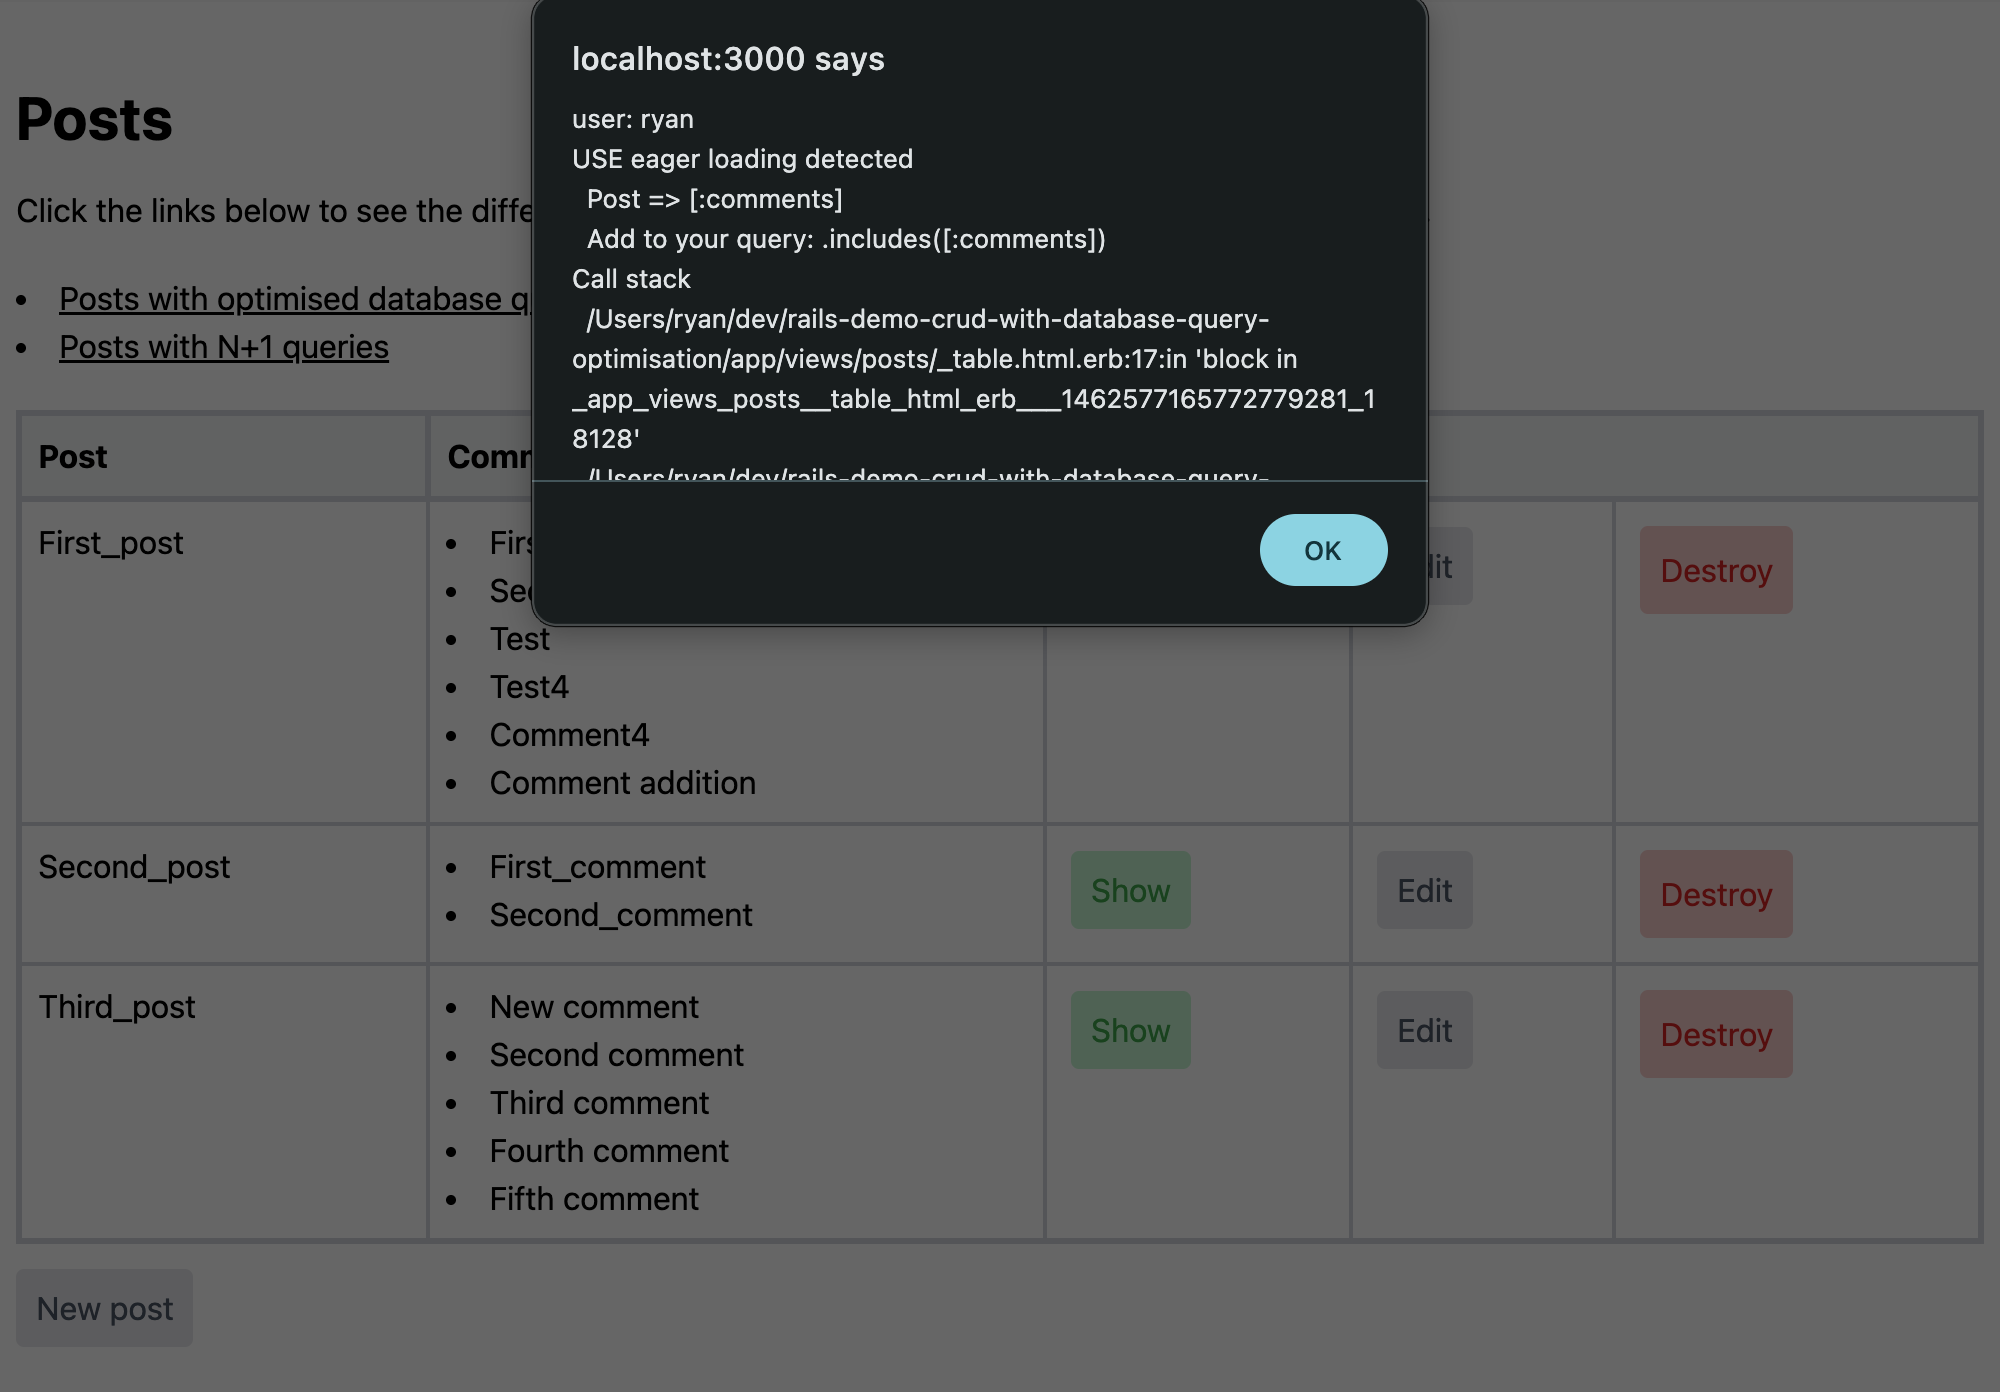
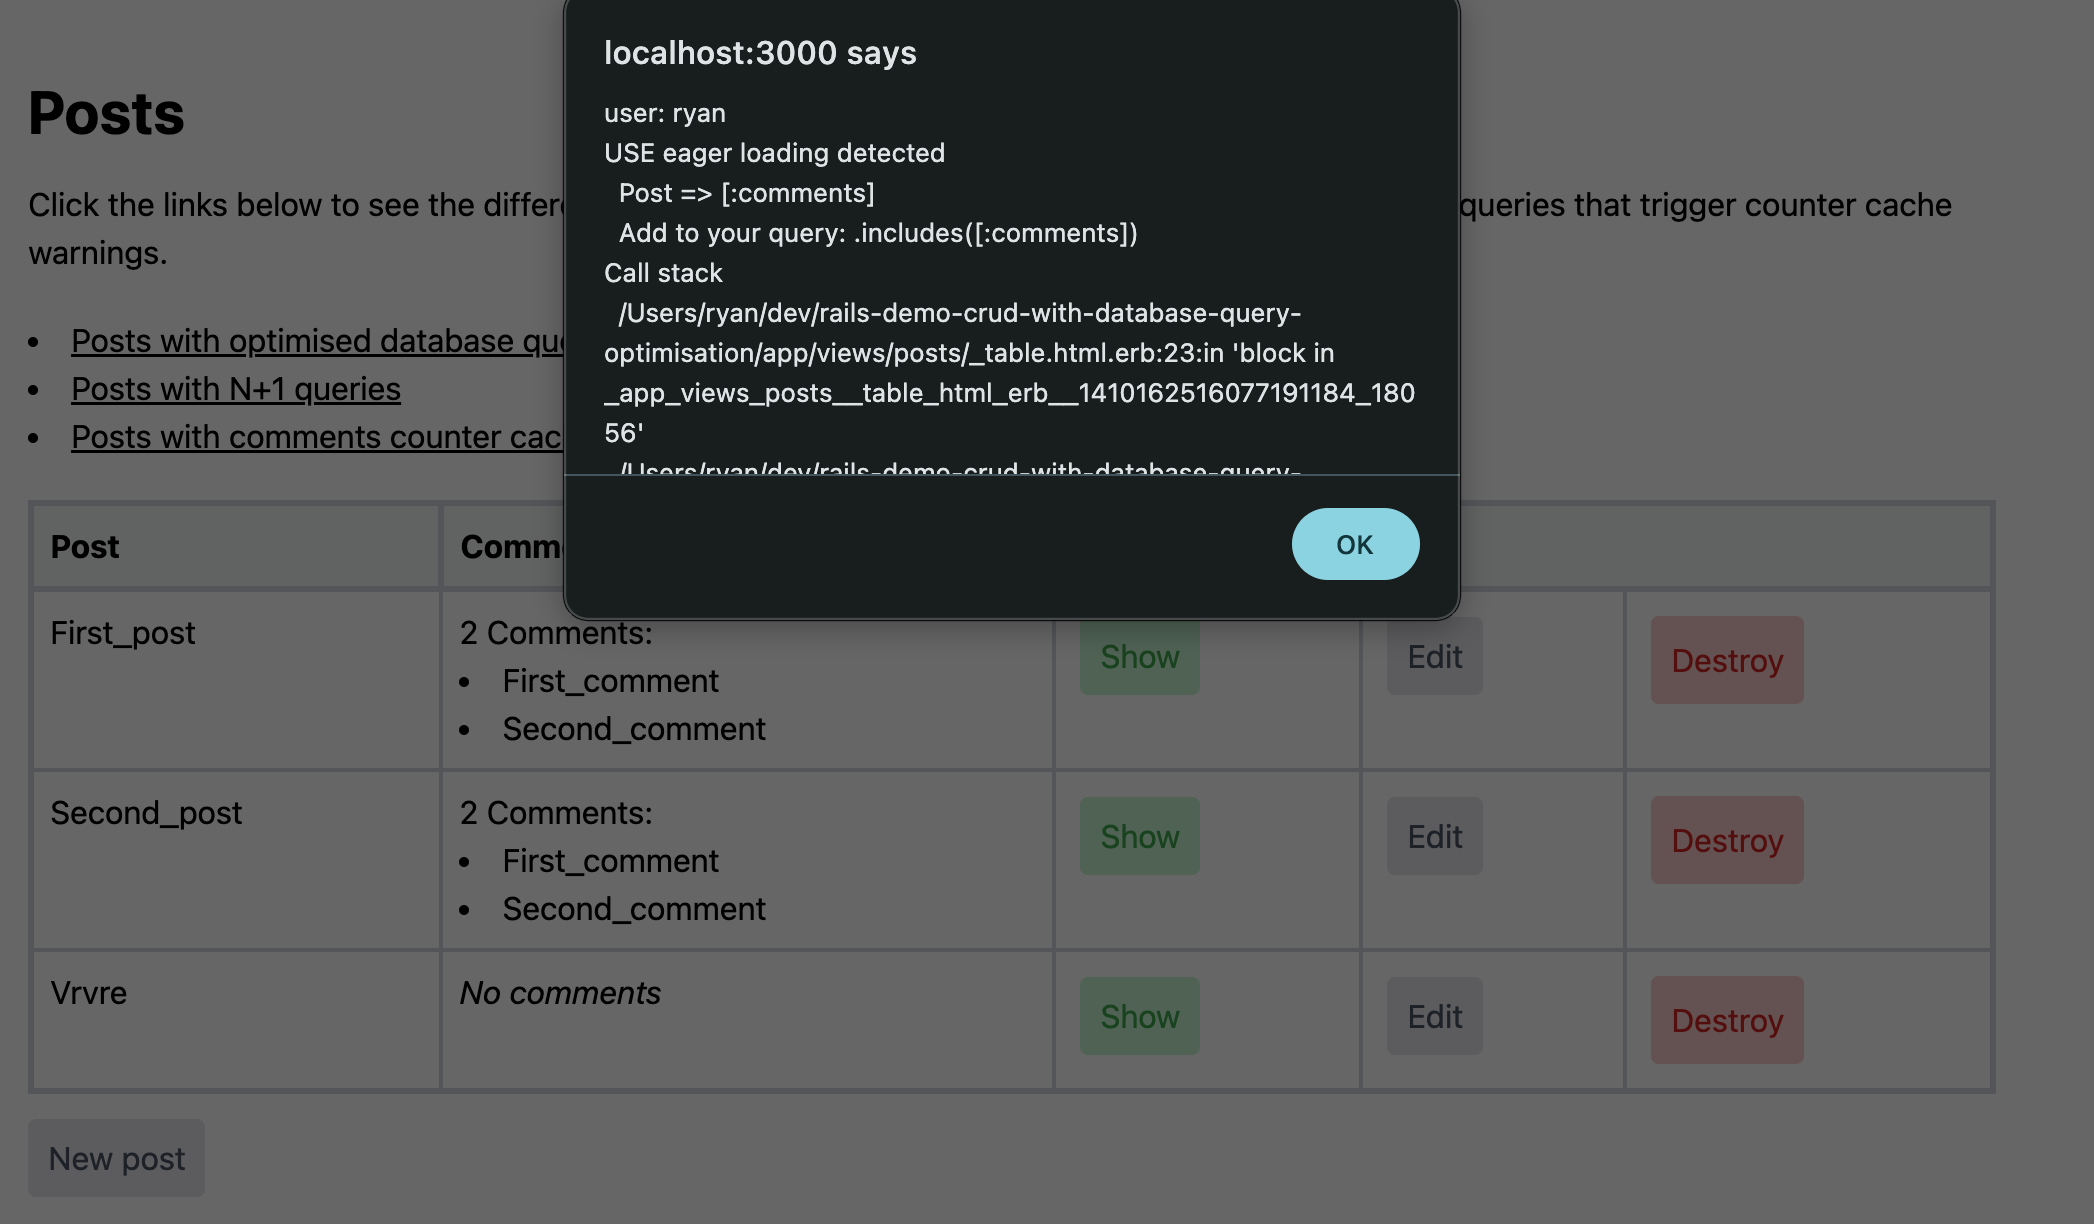
add counter cache for comments on posts with warning link

diff --git a/db/schema.rb b/db/schema.rb
@@ -10,7 +10,7 @@
 #
 # It's strongly recommended that you check this file into your version control system.
 
-ActiveRecord::Schema[8.0].define(version: 2025_10_06_203013) do
+ActiveRecord::Schema[8.0].define(version: 2025_10_07_204958) do
   create_table "comments", force: :cascade do |t|
     t.string "content"
     t.integer "post_id"
@@ -22,5 +22,6 @@ ActiveRecord::Schema[8.0].define(version: 2025_10_06_203013) do
     t.string "name"
     t.datetime "created_at", null: false
     t.datetime "updated_at", null: false
+    t.integer "comments_count", default: 0
   end
 end

diff --git a/app/controllers/posts_controller.rb b/app/controllers/posts_controller.rb
@@ -3,6 +3,10 @@ class PostsController < ApplicationController
 
   # GET /posts or /posts.json
   def index
+    if params[:query] == "counter-cache-warning"
+      # set flag to trigger counter cache warning in view
+      @counter_cache_warning = true
+    end
     if params[:query] == "n+1"
       @posts = Post.all
     else

diff --git a/app/models/comment.rb b/app/models/comment.rb
@@ -1,5 +1,5 @@
 class Comment < ApplicationRecord
-  belongs_to :post
+  belongs_to :post, counter_cache: true
 
   validates :content, presence: true, length: { minimum: 3, maximum: 255 }
 end

diff --git a/db/migrate/20251007204958_add_comments_count_to_posts.rb b/db/migrate/20251007204958_add_comments_count_to_posts.rb
@@ -1,0 +1,5 @@
+class AddCommentsCountToPosts < ActiveRecord::Migration[8.0]
+  def change
+    add_column :posts, :comments_count, :integer, default: 0
+  end
+end

diff --git a/README.md b/README.md
@@ -2,7 +2,7 @@
 
 This is a Ruby on Rails 8 demo app for create, read, update, and delete actions with database optimisations using the Ruby [bullet](https://github.com/flyerhzm/bullet) gem. It allows you to create posts with associated comments, view, edit, and delete them.
 
-The database queries contain both unoptimised and optimised versions to see the effect of the bullet gem to indentify database performance issues and suggest improvements, such as by using eager loading of records.
+The database queries contain both unoptimised and optimised versions to see the effect of the bullet gem to indentify database performance issues and suggest improvements, such as by using eager loading of records and using the counter cache.
 
 - Bullet gem: https://github.com/flyerhzm/bullet
 
@@ -37,9 +37,17 @@ Then open your internet browser, such as Chrome, and visit `http://localhost:300
 
 You can create, view, edit and delete posts records as well as their associated comments.
 
-Click on the links to view the effect of the optimised database query compared to the N+1 query.
+Click on the links to view the effect of the optimised database query compared to the N+1 query warning and counter cache warning.
 
 ## Use of Bullet gem for optimising database queries
+
+### Optimised query
+
+The optimised query is to eager load the associated comments in the controller action.
+
+https://github.com/rdsngit/rails-demo-crud-with-database-query-optimisation/blob/98c91e7aaa86e8fe69d9d31a286ec300c5f7e4ba/app/controllers/posts_controller.rb#L9-L10
+
+### Query with N+1 warnings
 
 When there is an N+1 query detected the Bullet gem should trigger errors to be displayed with suggestions for improving the query performance, like the following message:
 
@@ -55,9 +63,27 @@ https://github.com/rdsngit/rails-demo-crud-with-database-query-optimisation/blob
 
 https://github.com/rdsngit/rails-demo-crud-with-database-query-optimisation/blob/98c91e7aaa86e8fe69d9d31a286ec300c5f7e4ba/app/views/posts/_table.html.erb#L17
 
-The optimised query is to eager load the associated comments in the controller action.
+### Query with counter cache warnings
 
-https://github.com/rdsngit/rails-demo-crud-with-database-query-optimisation/blob/98c91e7aaa86e8fe69d9d31a286ec300c5f7e4ba/app/controllers/posts_controller.rb#L9-L10
+When records count is loaded without using a counter cache the Bullet gem triggers a warning.
+
+This can be seen in the demo app when post records load their associated comments then count them using `post.comments.count` rather than using the counter cache that is accessed using `post.comments_count`.
+
+https://github.com/rdsngit/rails-demo-crud-with-database-query-optimisation/blob/e2b6fae87340603a05d41b59a8b05b0e99759177/app/models/comment.rb#L2
+
+https://github.com/rdsngit/rails-demo-crud-with-database-query-optimisation/blob/2884187e8e63f716570ea72243b734231072ff64/app/views/posts/_table.html.erb#L19-L20
+
+The query can also be manually run in the rails console using `bin/rails c` and running the following code to see the additional query for the count that is activated.
+
+```
+rails-database-performance-bullet-gem-demo(dev)> Post.first.comments_count
+  Post Load (0.5ms)  SELECT "posts".* FROM "posts" ORDER BY "posts"."id" ASC LIMIT 1 /*application='RailsDatabasePerformanceBulletGemDemo'*/
+=> 2
+rails-database-performance-bullet-gem-demo(dev)> Post.first.comments.count
+  Post Load (0.5ms)  SELECT "posts".* FROM "posts" ORDER BY "posts"."id" ASC LIMIT 1 /*application='RailsDatabasePerformanceBulletGemDemo'*/
+  Comment Count (0.2ms)  SELECT COUNT(*) FROM "comments" WHERE "comments"."post_id" = 1 /*application='RailsDatabasePerformanceBulletGemDemo'*/
+=> 2
+```
 
 ## Tailwind CSS styling
 
@@ -67,6 +93,8 @@ The customised CSS styles for the app are defined in: [/app/assets/tailwind/appl
 
 ## Screenshots
 
-![screenshot of posts with comments table](/screenshots/screenshot-posts-with-comments-table.png)
+![screenshot of posts with optimised query](/screenshots/screenshot-posts-with-optimised-query.png)
 
 ![screenshot of N+1 query warning](/screenshots/screenshot-n+1-query-warning.png)
+
+![screenshot of query with counter cache warning](/screenshots/screenshot-query-counter-cache-warning.png)
